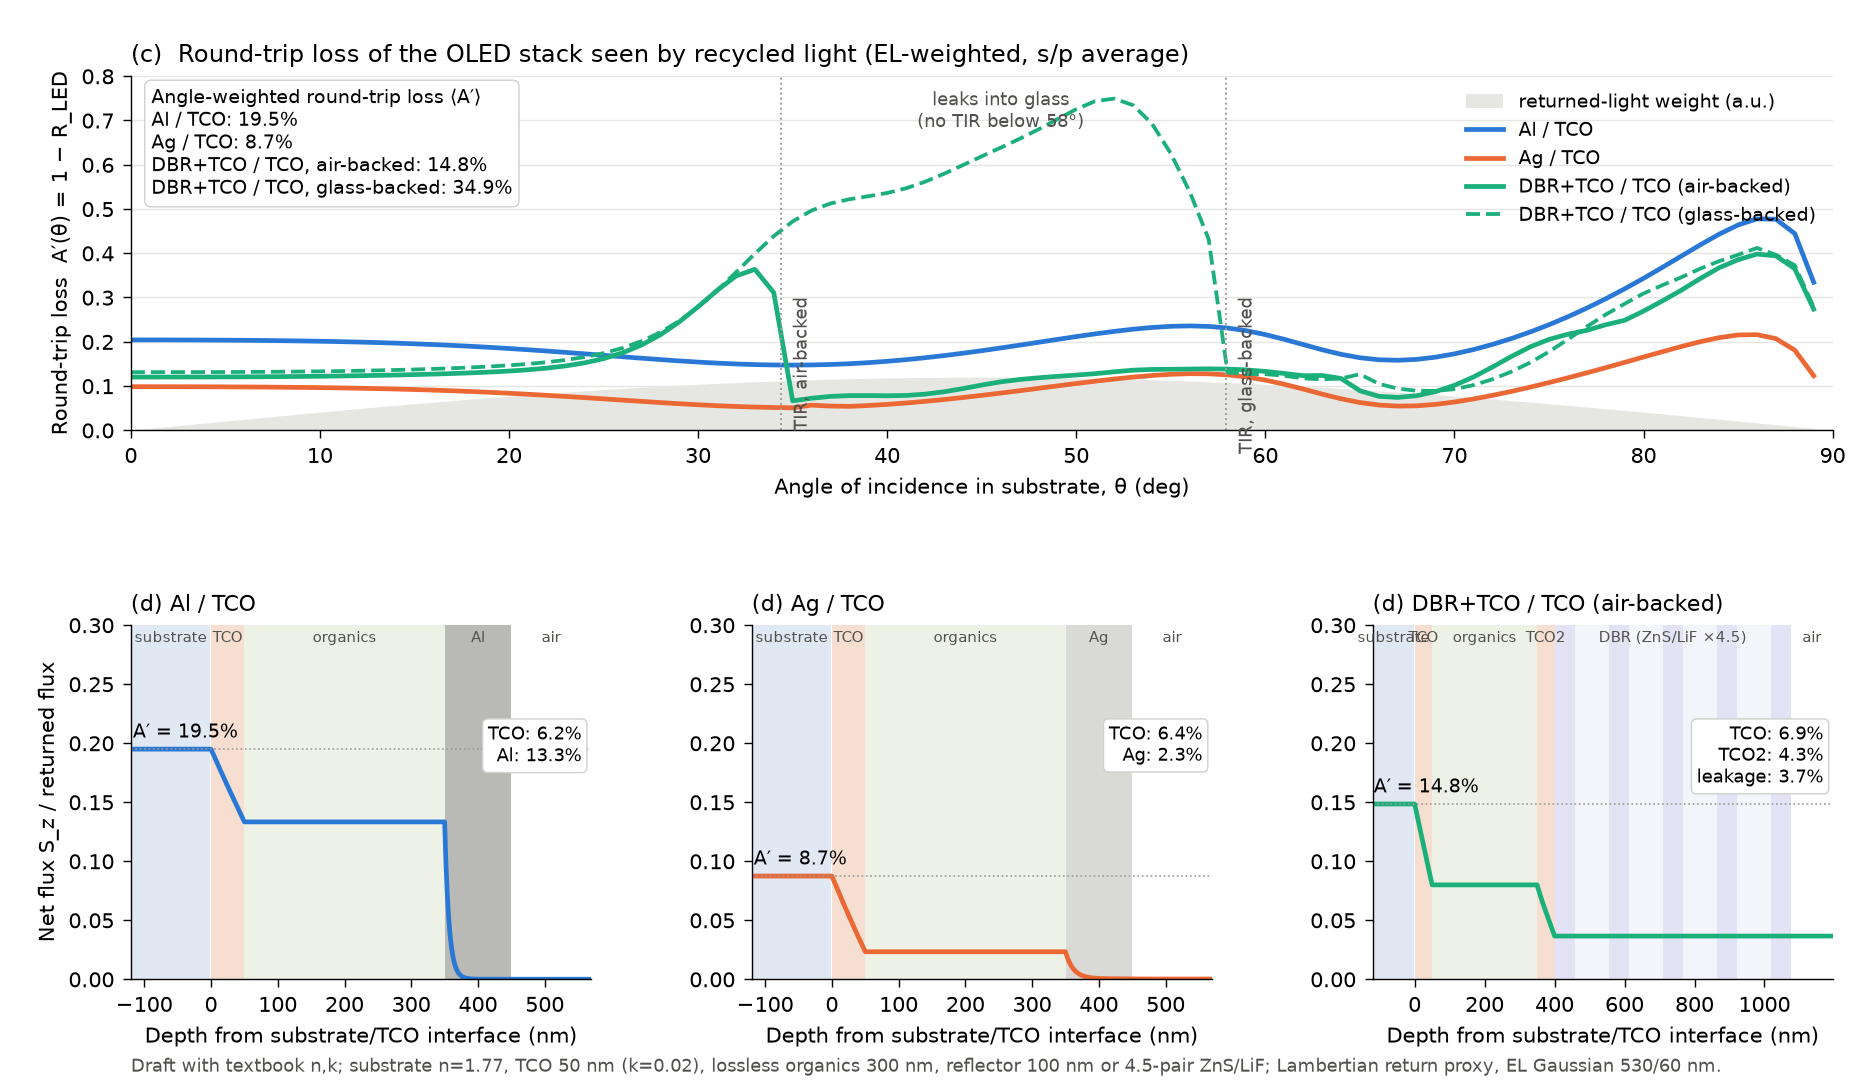
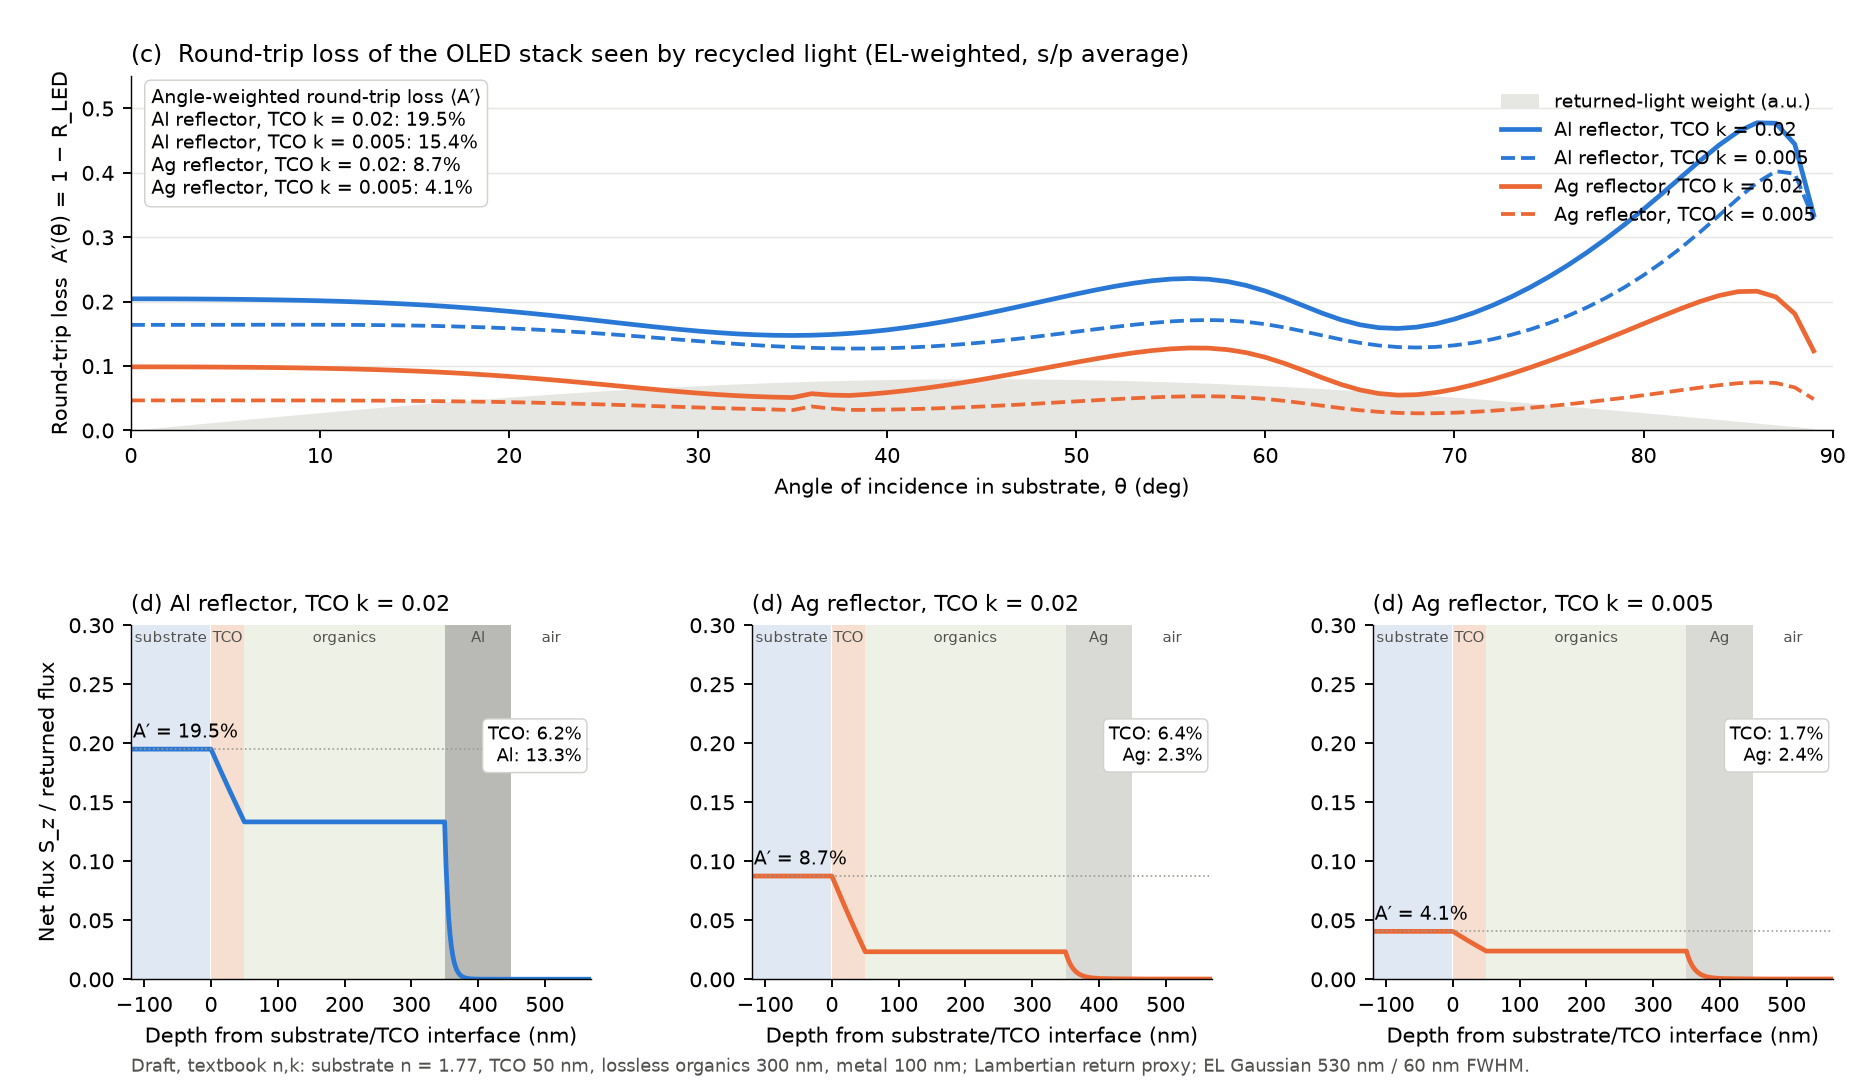
Rework Fig. 2(c)(d) mock as Al-vs-Ag with TCO extinction; move DBR to SI figure
Main-text draft now compares Al and Ag reflectors at two TCO qualities
(k = 0.02 and 0.005) in both the angle-resolved round-trip loss and the
layer-resolved flux profiles, showing the two-step route (metal, then
transparent electrode) to a low round-trip loss. The DBR content (air-
vs glass-backed, TIR boundaries, leakage tail) is a separate SI mock-up.

Claude-Session: https://claude.ai/code/session_01A1WQ3WGcJw8tT3QK2n57xo

diff --git a/figures/fig2cd_mock/fig2cd_mock.py b/figures/fig2cd_mock/fig2cd_mock.py
@@ -1,119 +1,69 @@
 """
-Fig. 2(c)(d) draft: round-trip loss of the OLED stack seen by recycled light.
+Fig. 2(c)(d) draft (main text): round-trip loss seen by recycled light, Al vs Ag,
+with the transparent-electrode extinction k as the second variable.
+Supplementary figure: DBR behind a TCO, air- vs glass-backed.
 
-(c) Spectrally weighted round-trip loss A'(theta) = 1 - R_LED(theta) for three
-    reflector systems, plane wave incident from the substrate (n = 1.77).
-(d) Layer-resolved net Poynting flux S_z(z) for plane-wave incidence, averaged
-    over the returned-light angular distribution and the EL spectrum. The value
-    in the substrate equals A'; each step is the loss in that layer; a non-zero
-    tail in the rear medium is leakage.
-
-Illustrative only: textbook n,k, simplified stacks. Replace with measured n,k,
-the real stack, and the MLA-returned distribution P_sub * BSDF_R.
+Plane-wave incidence from the substrate (n = 1.77); transfer matrix with
+layer-resolved net Poynting flux. Textbook n,k, simplified stacks: illustrative.
 """
 import numpy as np
 import matplotlib
 matplotlib.use("Agg")
 import matplotlib.pyplot as plt
-from matplotlib.patches import Patch
 
-# ---------------------------------------------------------------- optical constants (textbook-ish)
-WL = np.arange(440, 641, 5.0)            # nm, covers the green EL band
+WL = np.arange(440, 641, 5.0)
 def interp(tab):
     l, n, k = np.array(tab).T
     return np.interp(WL, l, n) + 1j*np.interp(WL, l, k)
+Ag = interp([(400,0.05,2.07),(450,0.04,2.66),(500,0.05,3.13),(550,0.055,3.62),(600,0.06,4.15),(650,0.065,4.5),(700,0.07,4.84)])
+Al = interp([(400,0.49,4.86),(450,0.62,5.47),(500,0.77,6.08),(550,0.96,6.69),(600,1.20,7.26),(650,1.47,7.79),(700,1.83,8.31)])
+ORG, ZnS, LiF, AIR, GLASS = (1.80+0j*WL), (2.35+0j*WL), (1.39+0j*WL), (1.0+0j*WL), (1.50+0j*WL)
+N_SUB = 1.77
+def TCO(k): return 2.0 + 0j*WL + 1j*k
+lam0 = 540.0; d_H, d_L = lam0/(4*2.35), lam0/(4*1.39)
 
-Ag = interp([(400,0.05,2.07),(450,0.04,2.66),(500,0.05,3.13),(550,0.055,3.62),
-             (600,0.06,4.15),(650,0.065,4.5),(700,0.07,4.84)])
-Al = interp([(400,0.49,4.86),(450,0.62,5.47),(500,0.77,6.08),(550,0.96,6.69),
-             (600,1.20,7.26),(650,1.47,7.79),(700,1.83,8.31)])
-K_TCO = 0.02                                   # as-deposited IZO band (Fig. 3c abscissa)
-IZO = 2.0 + 0.0j*WL + 1j*K_TCO
-ORG = 1.80 + 0j*WL
-ZnS = 2.35 + 0j*WL
-LiF = 1.39 + 0j*WL
-AIR = 1.0 + 0j*WL
-GLASS = 1.50 + 0j*WL
-N_SUB = 1.77                                    # incidence medium (substrate / MLA)
-
-lam0 = 540.0
-d_H, d_L = lam0/(4*2.35), lam0/(4*1.39)
-
-def stack(kind, rear="air"):
-    """list of (name, n(WL) complex array or scalar, thickness nm); first/last semi-infinite"""
-    common = [("substrate", N_SUB+0j*WL, None), ("TCO", IZO, 50.0), ("organics", ORG, 300.0)]
-    if kind == "Al":
-        return common + [("Al", Al, 100.0), ("air", AIR, None)]
-    if kind == "Ag":
-        return common + [("Ag", Ag, 100.0), ("air", AIR, None)]
+def stack(kind, k_tco=0.02, rear="air"):
+    common = [("substrate", N_SUB+0j*WL, None), ("TCO", TCO(k_tco), 50.0), ("organics", ORG, 300.0)]
+    if kind == "Al": return common + [("Al", Al, 100.0), ("air", AIR, None)]
+    if kind == "Ag": return common + [("Ag", Ag, 100.0), ("air", AIR, None)]
     if kind == "DBR":
         dbr = []
-        for p in range(4):
-            dbr += [("ZnS", ZnS, d_H), ("LiF", LiF, d_L)]
+        for _ in range(4): dbr += [("ZnS", ZnS, d_H), ("LiF", LiF, d_L)]
         dbr += [("ZnS", ZnS, d_H)]
-        rear_n = AIR if rear == "air" else GLASS
-        return common + [("TCO2", IZO, 50.0)] + dbr + [(rear, rear_n, None)]
-    raise ValueError
+        return common + [("TCO2", TCO(k_tco), 50.0)] + dbr + [(rear, AIR if rear == "air" else GLASS, None)]
 
-# ---------------------------------------------------------------- TMM with layer-resolved S_z
 def solve(layers, theta_deg, pol):
-    """Returns R, T, and a function giving normalized S_z on a depth grid.
-    Amplitudes A_j (forward), B_j (backward) referenced to each layer's front boundary."""
-    th = np.deg2rad(theta_deg)
-    k0 = 2*np.pi/WL                                   # 1/nm, array over WL
-    n_list = [L[1] for L in layers]
-    d_list = [L[2] for L in layers]
-    kx = k0*N_SUB*np.sin(th)
-    eps = [n**2 for n in n_list]
-    q = [np.sqrt(e*k0**2 - kx**2 + 0j) for e in eps]  # principal branch: Im>=0
-    # "impedance" quantity: s -> q ; p -> q/eps
+    th = np.deg2rad(theta_deg); k0 = 2*np.pi/WL
+    n_list = [L[1] for L in layers]; d_list = [L[2] for L in layers]
+    kx = k0*N_SUB*np.sin(th); eps = [n**2 for n in n_list]
+    q = [np.sqrt(e*k0**2 - kx**2 + 0j) for e in eps]
     p = [qj if pol == "s" else qj/e for qj, e in zip(q, eps)]
     N = len(layers)
-    # backward recursion of effective reflection rho_j = B_j/A_j at front of layer j
-    rho = [None]*N
-    rho[N-1] = np.zeros_like(WL, dtype=complex)
-    r = [None]*(N-1)
-    t = [None]*(N-1)
-    for j in range(N-1):
-        r[j] = (p[j]-p[j+1])/(p[j]+p[j+1])
-        t[j] = 2*p[j]/(p[j]+p[j+1])
+    r = [(p[j]-p[j+1])/(p[j]+p[j+1]) for j in range(N-1)]
+    t = [2*p[j]/(p[j]+p[j+1]) for j in range(N-1)]
+    rho = [None]*N; rho[N-1] = np.zeros_like(WL, dtype=complex)
     for j in range(N-2, -1, -1):
-        ph = np.exp(2j*q[j+1]*d_list[j+1]) if d_list[j+1] is not None else 1.0
-        rho_back = rho[j+1]*ph  # B/A referenced to the BACK of layer j+1? -> careful:
-        # rho[j+1] is B_{j+1}/A_{j+1} at the FRONT of layer j+1. The Airy formula at the
-        # interface j|j+1 needs the ratio (b/a) just after the interface = rho[j+1]. Then
-        # rho[j] = (r + rho[j+1])/(1 + r rho[j+1]) * exp(2 i q_j d_j).
         ratio = (r[j] + rho[j+1])/(1 + r[j]*rho[j+1])
         rho[j] = ratio*(np.exp(2j*q[j]*d_list[j]) if d_list[j] is not None else 1.0)
-    # forward pass
     A = [None]*N; B = [None]*N
     A[0] = np.ones_like(WL, dtype=complex); B[0] = rho[0]
     for j in range(N-1):
         a = A[j]*(np.exp(1j*q[j]*d_list[j]) if d_list[j] is not None else 1.0)
-        A[j+1] = t[j]*a/(1 + r[j]*rho[j+1])
-        B[j+1] = rho[j+1]*A[j+1]
+        A[j+1] = t[j]*a/(1 + r[j]*rho[j+1]); B[j+1] = rho[j+1]*A[j+1]
     R = np.abs(B[0])**2
     T = np.real(p[N-1])/np.real(p[0])*np.abs(A[N-1])**2
-    def Sz_profile(zgrid_per_layer):
-        """zgrid_per_layer: list of arrays of local depth (0..d) per layer. Returns S_z/S_inc."""
-        out = []
-        S_inc = np.real(p[0])  # |A0|^2 = 1
-        for j, zz in enumerate(zgrid_per_layer):
+    def Sz_profile(grids):
+        out = []; S_inc = np.real(p[0])
+        for j, zz in enumerate(grids):
             f = A[j][:, None]*np.exp(1j*q[j][:, None]*zz[None, :])
             b = B[j][:, None]*np.exp(-1j*q[j][:, None]*zz[None, :])
-            S = np.real(p[j][:, None]*(f - b)*np.conj(f + b)) if pol == "p" else \
-                np.real(np.conj(p[j][:, None]*(f - b))*(f + b))
-            # both forms equal Re[p (f-b) conj(f+b)] for s; for p the same expression
-            # with p = q/eps; sign conventions identical -> use one:
-            S = np.real(p[j][:, None]*(f - b)*np.conj(f + b))
-            out.append(S/S_inc[:, None])
+            out.append(np.real(p[j][:, None]*(f - b)*np.conj(f + b))/S_inc[:, None])
         return out
     return R, T, Sz_profile
 
-# ---------------------------------------------------------------- weights
-EL = np.exp(-0.5*((WL-530.0)/25.5)**2); EL /= EL.sum()          # FWHM ~ 60 nm
+EL = np.exp(-0.5*((WL-530.0)/25.5)**2); EL /= EL.sum()
 thetas = np.arange(0, 89.5, 1.0)
-w_th = np.sin(np.deg2rad(thetas))*np.cos(np.deg2rad(thetas)); w_th /= w_th.sum()  # Lambertian in substrate (proxy for MLA return)
+w_th = np.sin(np.deg2rad(thetas))*np.cos(np.deg2rad(thetas)); w_th /= w_th.sum()
 
 def A_prime_vs_theta(layers):
     out = []
@@ -123,101 +73,29 @@ def A_prime_vs_theta(layers):
     return np.array(out)
 
 def weighted_profile(layers, pad=120.0, dz=1.0):
-    d_list = [L[2] for L in layers]
-    grids = []
+    d_list = [L[2] for L in layers]; grids = []
     for j, d in enumerate(d_list):
-        if d is None:
-            grids.append(np.arange(-pad, 0, dz) if j == 0 else np.arange(0, pad, dz))
-        else:
-            grids.append(np.arange(0, d+1e-9, dz))
+        grids.append((np.arange(-pad, 0, dz) if j == 0 else np.arange(0, pad, dz)) if d is None else np.arange(0, d+1e-9, dz))
     acc = [np.zeros(len(g)) for g in grids]
     for th, w in zip(thetas, w_th):
         for pol in ("s", "p"):
-            _, _, prof = solve(layers, th, pol)
-            S = prof(grids)
-            for j in range(len(grids)):
-                acc[j] += 0.5*w*np.sum(EL[:, None]*S[j], axis=0)
-    # absolute depth axis
+            _, _, prof = solve(layers, th, pol); S = prof(grids)
+            for j in range(len(grids)): acc[j] += 0.5*w*np.sum(EL[:, None]*S[j], axis=0)
     z0 = 0.0; zabs = []
     for j, g in enumerate(grids):
-        if j == 0: zabs.append(g)            # substrate: negative local depth (already -pad..0)
-        else:
-            zabs.append(z0 + g); z0 += (d_list[j] if d_list[j] is not None else 0.0)
-    return zabs, acc, d_list
+        if j == 0: zabs.append(g)
+        else: zabs.append(z0 + g); z0 += (d_list[j] or 0.0)
+    return zabs, acc
 
-# ---------------------------------------------------------------- compute
-systems = [("Al / TCO",  stack("Al"),  "#2a78d6"),
-           ("Ag / TCO",  stack("Ag"),  "#eb6834"),
-           ("DBR+TCO / TCO (air-backed)", stack("DBR","air"), "#1baf7a")]
-dbr_glass = stack("DBR","glass")
+BAND = {"substrate": "#dfe8f3", "TCO": "#f6dfd0", "TCO2": "#f6dfd0", "organics": "#eef2e6", "Al": "#b9b9b6",
+        "Ag": "#d9d9d6", "ZnS": "#e3e3f5", "LiF": "#f4f4fb", "air": "#ffffff", "glass": "#eef4fa"}
 
-Ap = {name: A_prime_vs_theta(L) for name, L, _ in systems}
-Ap_glass = A_prime_vs_theta(dbr_glass)
-Ap_w = {name: np.sum(w_th*Ap[name]) for name in Ap}
-
-profiles = {name: weighted_profile(L) for name, L, _ in systems}
-
-# per-layer loss table
-def layer_losses(name):
-    zabs, acc, d_list = profiles[name]
-    rows = []
-    layers = dict(systems_map)[name]
-    names = [L[0] for L in layers]
-    for j in range(1, len(acc)-1):
-        rows.append((names[j], acc[j][0] - acc[j][-1]))
-    return acc[0][0], rows, acc[-1][0]
-systems_map = [(n, L) for n, L, _ in systems]
-
-# ---------------------------------------------------------------- figure
-plt.rcParams.update({"font.size": 9, "axes.linewidth": 0.6, "xtick.major.width": 0.6,
-                     "ytick.major.width": 0.6, "font.family": "DejaVu Sans"})
-fig = plt.figure(figsize=(11.0, 6.4), facecolor="white")
-gs = fig.add_gridspec(2, 3, height_ratios=[1.0, 1.0], hspace=0.55, wspace=0.35,
-                      left=0.07, right=0.98, top=0.93, bottom=0.10)
-axc = fig.add_subplot(gs[0, :])
-axd = [fig.add_subplot(gs[1, i]) for i in range(3)]
-
-# ---- (c)
-axc.fill_between(thetas, 0, w_th/w_th.max()*0.12, color="#e6e6e3", lw=0, label="returned-light weight (a.u.)")
-for name, L, col in systems:
-    axc.plot(thetas, Ap[name], color=col, lw=2.0, label=name)
-axc.plot(thetas, Ap_glass, color="#1baf7a", lw=1.6, ls="--", label="DBR+TCO / TCO (glass-backed)")
-tir_air = np.degrees(np.arcsin(1/N_SUB)); tir_gl = np.degrees(np.arcsin(1.5/N_SUB))
-for x, lab in [(tir_air, "TIR, air-backed"), (tir_gl, "TIR, glass-backed")]:
-    axc.axvline(x, color="#9a9a96", lw=0.8, ls=":")
-    axc.text(x+0.6, 0.30, lab, rotation=90, va="top", ha="left", fontsize=7.5, color="#52514e")
-summary = ("Angle-weighted round-trip loss ⟨A′⟩\n"
-           f"Al / TCO: {Ap_w['Al / TCO']*100:.1f}%\n"
-           f"Ag / TCO: {Ap_w['Ag / TCO']*100:.1f}%\n"
-           f"DBR+TCO / TCO, air-backed: {Ap_w['DBR+TCO / TCO (air-backed)']*100:.1f}%\n"
-           f"DBR+TCO / TCO, glass-backed: {np.sum(w_th*Ap_glass)*100:.1f}%")
-axc.text(0.012, 0.97, summary, transform=axc.transAxes, ha="left", va="top", fontsize=8,
-         bbox=dict(boxstyle="round,pad=0.35", fc="white", ec="#d0d0cc", lw=0.6))
-axc.text(46, 0.77, "leaks into glass\n(no TIR below 58°)", fontsize=7.5, color="#52514e", ha="center", va="top")
-axc.set_xlim(0, 90); axc.set_ylim(0, 0.8)
-axc.set_xlabel("Angle of incidence in substrate, θ (deg)")
-axc.set_ylabel("Round-trip loss  A′(θ) = 1 − R_LED")
-axc.set_title("(c)  Round-trip loss of the OLED stack seen by recycled light (EL-weighted, s/p average)", loc="left", fontsize=10)
-axc.legend(frameon=False, fontsize=8, loc="upper right", ncol=1)
-for s in ("top", "right"): axc.spines[s].set_visible(False)
-axc.grid(axis="y", color="#e6e6e3", lw=0.6)
-
-# ---- (d)
-band_col = {"substrate": "#dfe8f3", "TCO": "#f6dfd0", "TCO2": "#f6dfd0", "organics": "#eef2e6",
-            "Al": "#b9b9b6", "Ag": "#d9d9d6", "ZnS": "#e3e3f5", "LiF": "#f4f4fb", "air": "#ffffff", "glass": "#eef4fa"}
-for ax, (name, L, col) in zip(axd, systems):
-    zabs, acc, d_list = profiles[name]
-    names = [l[0] for l in L]
-    # layer bands
-    for j in range(len(zabs)):
-        z0, z1 = zabs[j][0], zabs[j][-1]
-        ax.axvspan(z0, z1, color=band_col.get(names[j], "#eeeeee"), lw=0)
-    zz = np.concatenate(zabs); ss = np.concatenate(acc)
-    ax.plot(zz, ss, color=col, lw=2.0)
+def draw_profile(ax, layers, col, title, ymax=0.30):
+    zabs, acc = weighted_profile(layers); names = [l[0] for l in layers]
+    for j in range(len(zabs)): ax.axvspan(zabs[j][0], zabs[j][-1], color=BAND.get(names[j], "#eee"), lw=0)
+    zz = np.concatenate(zabs); ss = np.concatenate(acc); ax.plot(zz, ss, color=col, lw=2.0)
     A0 = acc[0][0]; T = acc[-1][0]
-    ax.axhline(A0, color="#9a9a96", lw=0.7, ls=":")
-    ax.text(zabs[0][0]+3, A0+0.006, f"A′ = {A0*100:.1f}%", fontsize=8, va="bottom")
-    # per-layer annotations (merge DBR layers)
+    ax.axhline(A0, color="#9a9a96", lw=0.7, ls=":"); ax.text(zabs[0][0]+3, A0+0.006, f"A′ = {A0*100:.1f}%", fontsize=8, va="bottom")
     losses = {}
     for j in range(1, len(acc)-1):
         key = "DBR" if names[j] in ("ZnS", "LiF") else names[j]
@@ -226,28 +104,76 @@ for ax, (name, L, col) in zip(axd, systems):
     if T > 5e-4: txt += f"\nleakage: {T*100:.1f}%"
     ax.text(0.98, 0.72, txt, transform=ax.transAxes, ha="right", va="top", fontsize=7.5,
             bbox=dict(boxstyle="round,pad=0.3", fc="white", ec="#d0d0cc", lw=0.6))
-    ax.set_ylim(0, max(0.30, A0*1.25)); ax.set_xlim(zz[0], zz[-1])
+    ax.set_ylim(0, ymax); ax.set_xlim(zz[0], zz[-1]); ax.set_title(title, loc="left", fontsize=9.5)
     ax.set_xlabel("Depth from substrate/TCO interface (nm)")
-    ax.set_title(f"(d) {name}", loc="left", fontsize=9.5)
     for s in ("top", "right"): ax.spines[s].set_visible(False)
-    # layer labels on top
     for j in range(len(zabs)):
         if names[j] in ("ZnS", "LiF"): continue
-        zm = 0.5*(zabs[j][0]+zabs[j][-1])
-        ax.text(zm, ax.get_ylim()[1]*0.985, names[j], ha="center", va="top", fontsize=6.5, color="#52514e")
-    if "DBR" in name:
-        zdbr = [zabs[j] for j in range(len(zabs)) if names[j] in ("ZnS", "LiF")]
-        zm = 0.5*(zdbr[0][0]+zdbr[-1][-1])
-        ax.text(zm, ax.get_ylim()[1]*0.985, "DBR (ZnS/LiF ×4.5)", ha="center", va="top", fontsize=6.5, color="#52514e")
-axd[0].set_ylabel("Net flux S_z / returned flux")
+        ax.text(0.5*(zabs[j][0]+zabs[j][-1]), ymax*0.985, names[j], ha="center", va="top", fontsize=6.5, color="#52514e")
+    if any(n in ("ZnS", "LiF") for n in names):
+        zd = [zabs[j] for j in range(len(zabs)) if names[j] in ("ZnS", "LiF")]
+        ax.text(0.5*(zd[0][0]+zd[-1][-1]), ymax*0.985, "DBR (ZnS/LiF ×4.5)", ha="center", va="top", fontsize=6.5, color="#52514e")
+    return A0
 
-fig.text(0.07, 0.015, "Draft with textbook n,k; substrate n=1.77, TCO 50 nm (k=0.02), lossless organics 300 nm, "
-         "reflector 100 nm or 4.5-pair ZnS/LiF; Lambertian return proxy, EL Gaussian 530/60 nm.",
-         fontsize=7.5, color="#52514e")
-out = "/home/user/OLED-/figures/fig2cd_mock/fig2cd_mock.png"
-fig.savefig(out, dpi=170)
-print("saved", out)
-for name in Ap:
-    A0, rows, T = layer_losses(name)
-    print(f"{name}: A'={A0*100:.2f}%  T={T*100:.2f}%  ", [(r[0], round(r[1]*100, 2)) for r in rows])
-print("A'(0deg):", {k: round(v[0]*100, 2) for k, v in Ap.items()}, " glass-backed DBR <A'>:", round(np.sum(w_th*Ap_glass)*100, 2))
+plt.rcParams.update({"font.size": 9, "axes.linewidth": 0.6, "font.family": "DejaVu Sans"})
+BLUE, ORANGE, AQUA = "#2a78d6", "#eb6834", "#1baf7a"
+K_HI, K_LO = 0.02, 0.005   # as-deposited IZO vs annealed ITO (Fig. 3c bands)
+
+# ============================================================ MAIN FIGURE: Al vs Ag
+fig = plt.figure(figsize=(11.0, 6.4), facecolor="white")
+gs = fig.add_gridspec(2, 3, hspace=0.55, wspace=0.35, left=0.07, right=0.98, top=0.93, bottom=0.10)
+axc = fig.add_subplot(gs[0, :]); axd = [fig.add_subplot(gs[1, i]) for i in range(3)]
+
+curves = [("Al reflector, TCO k = 0.02", stack("Al", K_HI), BLUE, "-"),
+          ("Al reflector, TCO k = 0.005", stack("Al", K_LO), BLUE, "--"),
+          ("Ag reflector, TCO k = 0.02", stack("Ag", K_HI), ORANGE, "-"),
+          ("Ag reflector, TCO k = 0.005", stack("Ag", K_LO), ORANGE, "--")]
+axc.fill_between(thetas, 0, w_th/w_th.max()*0.08, color="#e6e6e3", lw=0, label="returned-light weight (a.u.)")
+Aw = {}
+for lab, L, col, ls in curves:
+    Ap = A_prime_vs_theta(L); Aw[lab] = np.sum(w_th*Ap)
+    axc.plot(thetas, Ap, color=col, lw=2.0 if ls == "-" else 1.6, ls=ls, label=lab)
+summary = "Angle-weighted round-trip loss ⟨A′⟩\n" + "\n".join(f"{k}: {v*100:.1f}%" for k, v in Aw.items())
+axc.text(0.012, 0.97, summary, transform=axc.transAxes, ha="left", va="top", fontsize=8,
+         bbox=dict(boxstyle="round,pad=0.35", fc="white", ec="#d0d0cc", lw=0.6))
+axc.set_xlim(0, 90); axc.set_ylim(0, 0.55)
+axc.set_xlabel("Angle of incidence in substrate, θ (deg)"); axc.set_ylabel("Round-trip loss  A′(θ) = 1 − R_LED")
+axc.set_title("(c)  Round-trip loss of the OLED stack seen by recycled light (EL-weighted, s/p average)", loc="left", fontsize=10)
+axc.legend(frameon=False, fontsize=8, loc="upper right", ncol=1)
+for s in ("top", "right"): axc.spines[s].set_visible(False)
+axc.grid(axis="y", color="#e6e6e3", lw=0.6)
+
+draw_profile(axd[0], stack("Al", K_HI), BLUE,   "(d) Al reflector, TCO k = 0.02")
+draw_profile(axd[1], stack("Ag", K_HI), ORANGE, "(d) Ag reflector, TCO k = 0.02")
+draw_profile(axd[2], stack("Ag", K_LO), ORANGE, "(d) Ag reflector, TCO k = 0.005")
+axd[0].set_ylabel("Net flux S_z / returned flux")
+fig.text(0.07, 0.015, "Draft, textbook n,k: substrate n = 1.77, TCO 50 nm, lossless organics 300 nm, metal 100 nm; "
+         "Lambertian return proxy; EL Gaussian 530 nm / 60 nm FWHM.", fontsize=7.5, color="#52514e")
+fig.savefig("fig2cd_mock.png", dpi=170); print("saved fig2cd_mock.png"); print({k: round(v*100, 2) for k, v in Aw.items()})
+
+# ============================================================ SUPPLEMENTARY: DBR behind a TCO
+fig2 = plt.figure(figsize=(11.0, 6.4), facecolor="white")
+gs2 = fig2.add_gridspec(2, 2, hspace=0.55, wspace=0.3, left=0.07, right=0.98, top=0.93, bottom=0.10)
+axa = fig2.add_subplot(gs2[0, :]); axb = fig2.add_subplot(gs2[1, 0]); axg = fig2.add_subplot(gs2[1, 1])
+sc = [("DBR behind TCO, air-backed", stack("DBR", K_HI, "air"), AQUA, "-"),
+      ("DBR behind TCO, glass-backed", stack("DBR", K_HI, "glass"), AQUA, "--"),
+      ("Ag reflector (reference)", stack("Ag", K_HI), ORANGE, "-")]
+axa.fill_between(thetas, 0, w_th/w_th.max()*0.1, color="#e6e6e3", lw=0, label="returned-light weight (a.u.)")
+Aw2 = {}
+for lab, L, col, ls in sc:
+    Ap = A_prime_vs_theta(L); Aw2[lab] = np.sum(w_th*Ap); axa.plot(thetas, Ap, color=col, lw=2.0 if ls == "-" else 1.6, ls=ls, label=lab)
+for x, lab in [(np.degrees(np.arcsin(1/N_SUB)), "TIR, air-backed"), (np.degrees(np.arcsin(1.5/N_SUB)), "TIR, glass-backed")]:
+    axa.axvline(x, color="#9a9a96", lw=0.8, ls=":"); axa.text(x+0.6, 0.30, lab, rotation=90, va="top", ha="left", fontsize=7.5, color="#52514e")
+axa.text(46, 0.77, "leaks into glass\n(no TIR below 58°)", fontsize=7.5, color="#52514e", ha="center", va="top")
+axa.text(0.012, 0.97, "Angle-weighted ⟨A′⟩\n" + "\n".join(f"{k}: {v*100:.1f}%" for k, v in Aw2.items()),
+         transform=axa.transAxes, ha="left", va="top", fontsize=8, bbox=dict(boxstyle="round,pad=0.35", fc="white", ec="#d0d0cc", lw=0.6))
+axa.set_xlim(0, 90); axa.set_ylim(0, 0.8); axa.legend(frameon=False, fontsize=8, loc="upper right")
+axa.set_xlabel("Angle of incidence in substrate, θ (deg)"); axa.set_ylabel("Round-trip loss  A′(θ)")
+axa.set_title("(a)  Dielectric mirror behind a transparent electrode: the rear medium is part of the reflector", loc="left", fontsize=10)
+for s in ("top", "right"): axa.spines[s].set_visible(False)
+axa.grid(axis="y", color="#e6e6e3", lw=0.6)
+draw_profile(axb, stack("DBR", K_HI, "air"), AQUA, "(b) DBR behind TCO, air-backed", ymax=0.30)
+draw_profile(axg, stack("DBR", K_HI, "glass"), AQUA, "(c) DBR behind TCO, glass-backed", ymax=0.45)
+axb.set_ylabel("Net flux S_z / returned flux")
+fig2.text(0.07, 0.015, "Draft, textbook n,k: ZnS/LiF quarter-wave pairs at 540 nm; other parameters as in Fig. 2.", fontsize=7.5, color="#52514e")
+fig2.savefig("figS_dbr_mock.png", dpi=170); print("saved figS_dbr_mock.png"); print({k: round(v*100, 2) for k, v in Aw2.items()})
